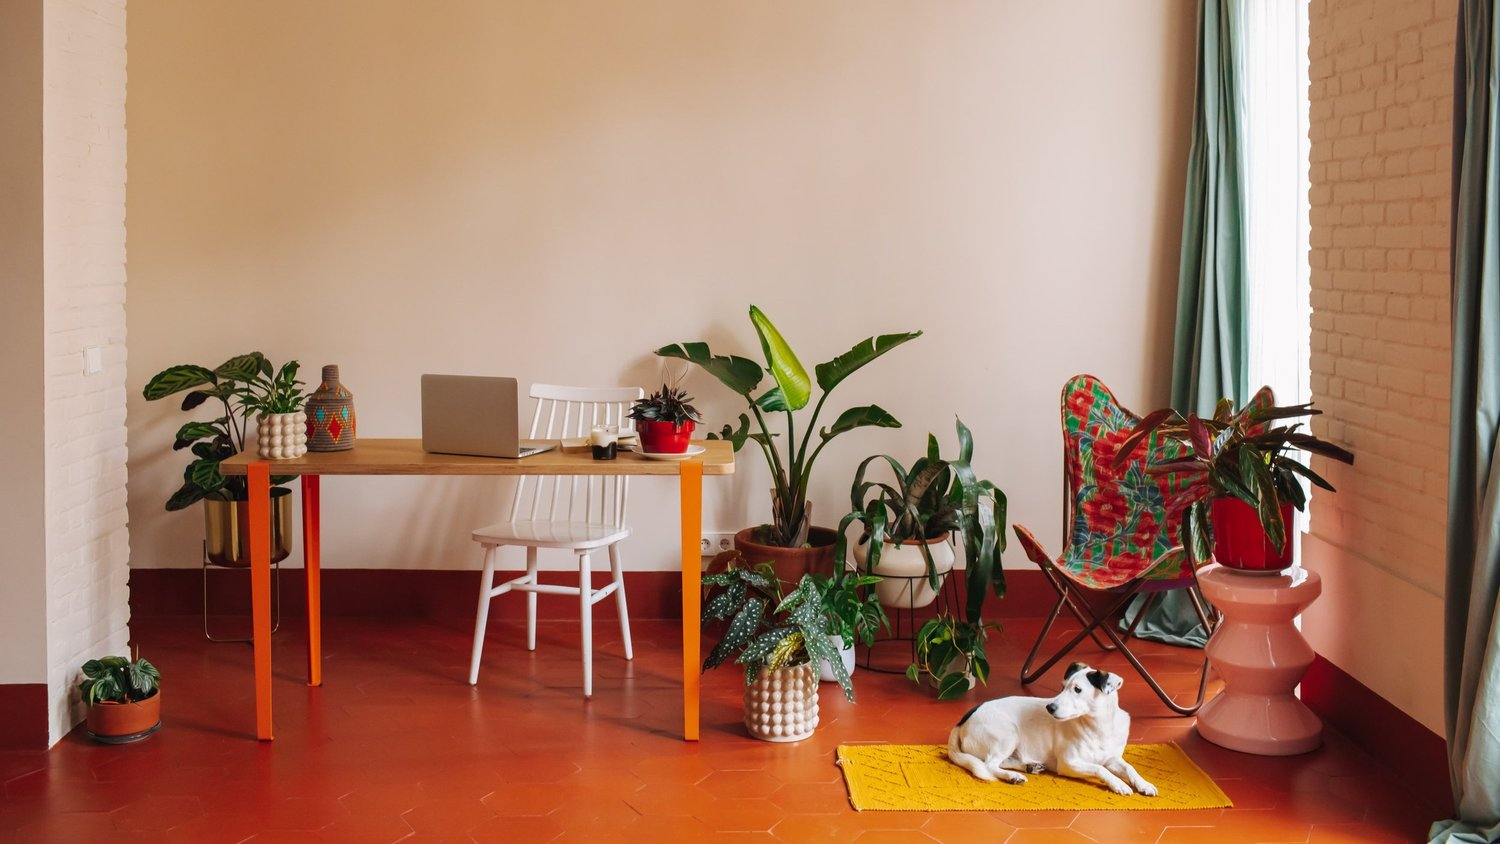
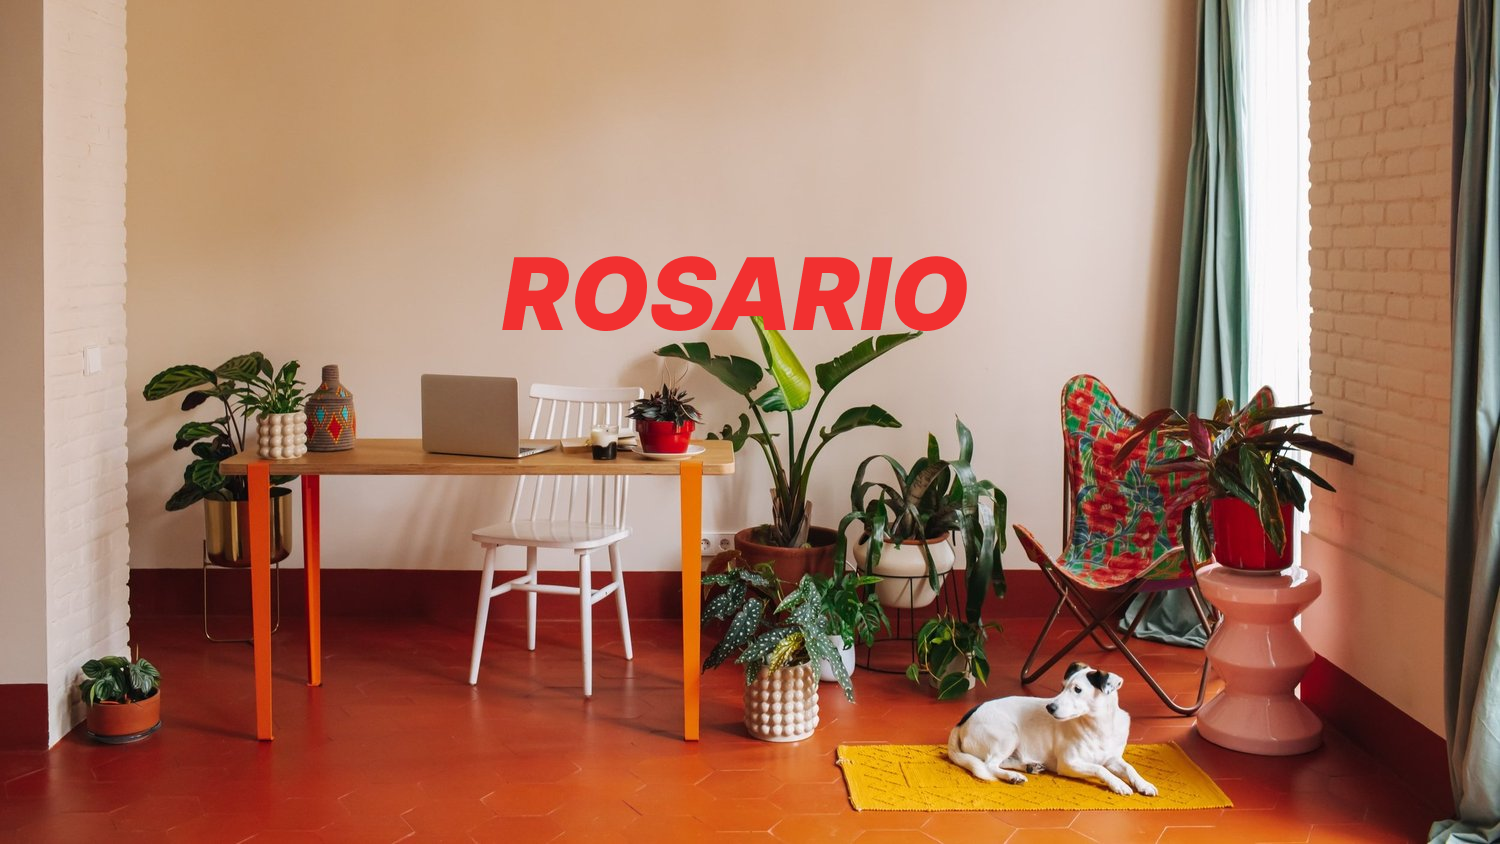
24.06.25 Home 이미지예시, seller 상단 메뉴 수정

Changed region(s): [[0.3373, 0.3081, 0.644, 0.4005]]

diff --git a/rosario_front/src/components/Header.jsx b/rosario_front/src/components/Header.jsx
@@ -41,36 +41,37 @@ const Header = () => {
             type="button"
             className="-m-2.5 inline-flex items-center justify-center rounded-md p-2.5 text-red-600 m-2"
             // onClick={() => setMobileMenuOpen(true)}
+            // onClick={() => setMobileMenuOpen(!mobileMenuOpen)} 
           >
             {/* <span className="sr-only">Open main menu</span> */}
-            <Bars3Icon className="h-6 w-6" />
+            <Bars3Icon className="h-6 w-6 inline-flex items-center gap-x-1 leading-6" />
+            
           </button>
+
+          
         </div>
 
         <div id="menu" className="lg:justify-center">
           <ul className="flex items-center justify-center lg:justify-between hidden lg:flex lg:gap-x-12">
-            {headerMenus.map((menu, key) => (
-              <li key={key} className="text-red-600 font-semibold border">
-                <Link to={menu.link}>{menu.title}</Link>
-              </li>
-            ))}
+            {headerMenus.map((menu, key) => {
+              // Check if the role is ROLE_SELLER to conditionally render "mypage"
+              if (menu.title === "mypage" && roles.includes("ROLE_SELLER")) {
+                return null; // Don't render mypage link for ROLE_SELLER
+              }
+              return (
+                <li key={key} className="text-red-600 font-semibold border">
+                  <Link to={menu.link}>{menu.title}</Link>
+                </li>
+              );
+            })}
             {roles.includes("ROLE_SELLER") && (
               <li className="text-red-600 font-semibold border">
-                <Link to="/admin/dashboard">seller</Link>
+                <Link to="/admin/dashboard">dashboard</Link>
               </li>
             )}
           </ul>
         </div>
 
-        {/* <ul className='menu_login flex lg:justify-end'>
-              {loginMenus.map((menu, key) => (
-                <button key={key} id='btn_rounded' className='m-1 overflow-wrap-normal'>
-                  <Link to={menu.link}>
-                    {menu.title}
-                  </Link>
-                </button>
-              ))}
-            </ul> */}
 
         <ul className="menu_login flex lg:justify-end">
           {/* Conditional rendering based on authentication state */}

diff --git a/rosario_front/src/components/MobileMenuButton.jsx b/rosario_front/src/components/MobileMenuButton.jsx
@@ -1,12 +1,10 @@
-import React, { useState } from 'react';
+import React from 'react';
 import { Disclosure, DisclosureButton, DisclosurePanel } from '@headlessui/react';
 import { Bars3Icon, XMarkIcon } from '@heroicons/react/24/outline';
 import { navigation } from "../data/menu";
 import classNames from 'classnames';
 
 const MobileMenuButton = () => {
-//   const [open, setOpen] = useState(false); // State to track if menu is open
-
   return (
     <Disclosure>
       {({ open }) => (
@@ -25,15 +23,15 @@ const MobileMenuButton = () => {
           </DisclosureButton>
 
           {/* Mobile menu panel */}
-          <DisclosurePanel className="md:hidden">
-            <div className="space-y-1 px-2 pb-3 pt-2 sm:px-3">
+          <DisclosurePanel className="md:hidden absolute top-0 left-0 w-full bg-white shadow-lg rounded-lg z-10 mt-3">
+            <div className="p-4 space-y-4">
               {/* Navigation links */}
               {navigation.map((item) => (
                 <a
                   key={item.name}
                   href={item.href}
                   className={classNames(
-                    item.current ? 'bg-gray-900 text-white' : 'text-gray-300 hover:bg-gray-700 hover:text-white',
+                    item.current ? 'bg-gray-900 text-white' : 'text-gray-900 hover:bg-gray-100',
                     'block rounded-md px-3 py-2 text-base font-medium',
                   )}
                   aria-current={item.current ? 'page' : undefined}

diff --git a/rosario_front/src/shop/gallery.jsx b/rosario_front/src/shop/gallery.jsx
@@ -1,0 +1,30 @@
+import React from 'react';
+import image5 from "../img/image3.png";
+import image6 from "../img/image4.png";
+import image7 from "../img/image8.png";
+import image8 from "../img/image6.png";
+import image9 from "../img/image2.png";
+
+const Gallery = () => {
+  return (
+    <div className="max-w-4xl mx-auto grid grid-flow-col grid-rows-2 grid-cols-3 gap-4">
+      <div>
+        <img src={image5} alt="" loading="lazy" className="w-full h-60 object-cover rounded-lg" />
+      </div>
+      <div className="col-start-3">
+        <img src={image6} alt="" loading="lazy" className="w-full h-60 object-cover rounded-lg"/>
+      </div>
+      <div>
+        <img src={image7} alt="" loading="lazy" className="w-full h-60 object-cover rounded-lg" />
+      </div>
+      <div>
+        <img src={image8} alt="" loading="lazy" className="w-full h-60 object-cover rounded-lg" />
+      </div>
+      <div className="row-start-1 col-start-2 col-span-2">
+        <img src={image9} alt="" loading="lazy" className="w-full h-60 object-cover rounded-lg" />
+      </div>
+    </div>
+  );
+};
+
+export default Gallery;

diff --git a/rosario_front/src/pages/Home.jsx b/rosario_front/src/pages/Home.jsx
@@ -6,6 +6,7 @@ import image1 from "../img/image1.png";
 import image2 from "../img/image1.png";
 import image3 from "../img/image1.png";
 import image4 from "../img/image5.png";
+import Gallery from "../shop/gallery";
 
 const Home = () => {
   return (
@@ -60,6 +61,10 @@ const Home = () => {
             Experience beautiful bouquets and unforgettable moments with our
             service!{" "}
           </p>
+        </div>
+
+        <div className="gallery mt-20">
+              <Gallery />
         </div>
       </main>
     </div>
